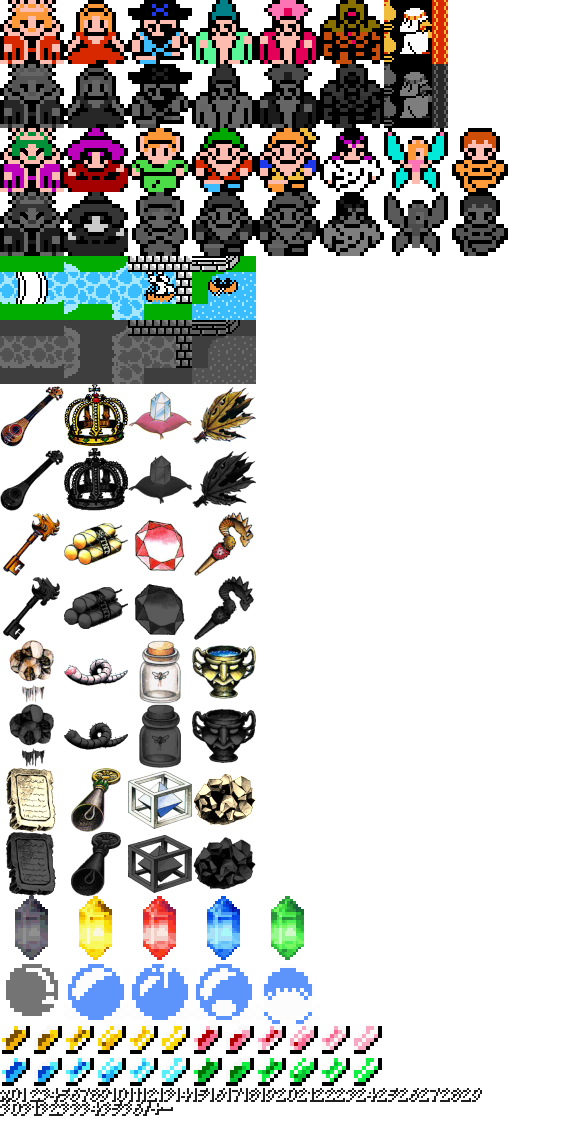
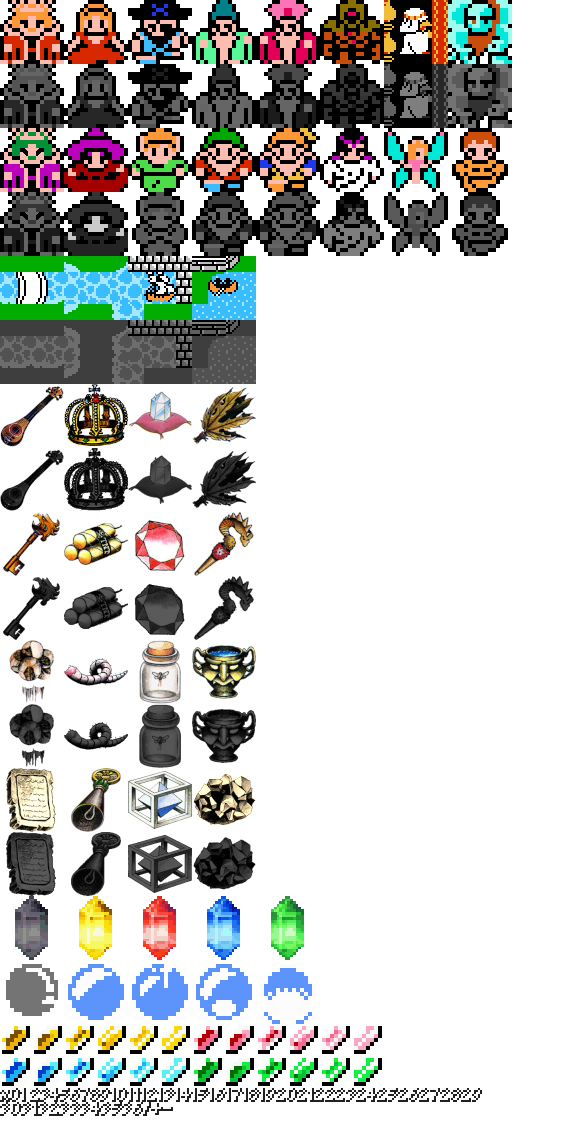
Add Titan/change NPC layout

Changed region(s): [[0.7397, 0.0, 0.8938, 0.1232]]

diff --git a/src/properties/iconProperties.ts b/src/properties/iconProperties.ts
@@ -315,6 +315,14 @@ const lefeinianOn: ICoordinates = {
   x: 320,
   y: 128,
 };
+const titanOff: ICoordinates = {
+  x: 448,
+  y: 64,
+};
+const titanOn: ICoordinates = {
+  x: 448,
+  y: 0,
+};
 const shopkeeperOff: ICoordinates = {
   x: 384,
   y: 64,
@@ -960,8 +968,8 @@ export const sardaIcon = (names: IItemNames): IIconProps => {
     toggleState: Toggle.off,
     width: standardWidthHeight,
     height: standardWidthHeight,
-    row: 0,
-    column: 3,
+    row: 1,
+    column: 0,
     stateImageLocations: [sardaOff, sardaOn],
     // empty props
     settings: {} as ISettingsProps,
@@ -976,8 +984,8 @@ export const sagesIcon = (names: IItemNames): IIconProps => {
     toggleState: Toggle.off,
     width: standardWidthHeight,
     height: standardWidthHeight,
-    row: 0,
-    column: 4,
+    row: 1,
+    column: 1,
     stateImageLocations: [sagesOff, sagesOn],
     // empty props
     settings: {} as ISettingsProps,
@@ -992,8 +1000,8 @@ export const robotIcon = (names: IItemNames): IIconProps => {
     toggleState: Toggle.off,
     width: standardWidthHeight,
     height: standardWidthHeight,
-    row: 0,
-    column: 5,
+    row: 1,
+    column: 2,
     stateImageLocations: [robotOff, robotOn],
     // empty props
     settings: {} as ISettingsProps,
@@ -1009,8 +1017,8 @@ export const astosIcon = (names: IItemNames): IIconProps => {
     toggleState: Toggle.off,
     width: standardWidthHeight,
     height: standardWidthHeight,
-    row: 1,
-    column: 0,
+    row: 0,
+    column: 3,
     stateImageLocations: [astosOff, astosOn],
     // empty props
     settings: {} as ISettingsProps,
@@ -1025,8 +1033,8 @@ export const matoyaIcon = (names: IItemNames): IIconProps => {
     toggleState: Toggle.off,
     width: standardWidthHeight,
     height: standardWidthHeight,
-    row: 1,
-    column: 1,
+    row: 0,
+    column: 4,
     stateImageLocations: [matoyaOff, matoyaOn],
     // empty props
     settings: {} as ISettingsProps,
@@ -1041,8 +1049,8 @@ export const elfIcon = (names: IItemNames): IIconProps => {
     toggleState: Toggle.off,
     width: standardWidthHeight,
     height: standardWidthHeight,
-    row: 1,
-    column: 2,
+    row: 0,
+    column: 5,
     stateImageLocations: [elfOff, elfOn],
     // empty props
     settings: {} as ISettingsProps,
@@ -1057,8 +1065,8 @@ export const nerrickIcon = (names: IItemNames): IIconProps => {
     toggleState: Toggle.off,
     width: standardWidthHeight,
     height: standardWidthHeight,
-    row: 1,
-    column: 3,
+    row: 0,
+    column: 6,
     stateImageLocations: [nerrickOff, nerrickOn],
     // empty props
     settings: {} as ISettingsProps,
@@ -1074,7 +1082,7 @@ export const smythIcon = (names: IItemNames): IIconProps => {
     width: standardWidthHeight,
     height: standardWidthHeight,
     row: 1,
-    column: 4,
+    column: 7,
     stateImageLocations: [smythOff, smythOn],
     // empty props
     settings: {} as ISettingsProps,
@@ -1114,6 +1122,22 @@ export const lefeinianIcon = (names: IItemNames): IIconProps => {
   };
 };
 
+export const titanIcon = (names: IItemNames): IIconProps => {
+  return {
+    title: names.titan,
+    shortName: names.titan,
+    toggleState: Toggle.off,
+    width: standardWidthHeight,
+    height: standardWidthHeight,
+    row: 0,
+    column: 7,
+    stateImageLocations: [titanOff, titanOn],
+    // empty props
+    settings: {} as ISettingsProps,
+    handleHover: () => {},
+  };
+};
+
 ////// Shopkeeper and fairy //////
 export const shopkeeperIcon = (names: IItemNames): IIconProps => {
   return {
@@ -1122,8 +1146,8 @@ export const shopkeeperIcon = (names: IItemNames): IIconProps => {
     toggleState: Toggle.off,
     width: standardWidthHeight,
     height: standardWidthHeight,
-    row: 0,
-    column: 7,
+    row: 1,
+    column: 3,
     stateImageLocations: [shopkeeperOff, shopkeeperOn],
     // empty props
     settings: {} as ISettingsProps,
@@ -1139,7 +1163,7 @@ export const fairyIcon = (names: IItemNames): IIconProps => {
     width: standardWidthHeight,
     height: standardWidthHeight,
     row: 1,
-    column: 7,
+    column: 4,
     stateImageLocations: [fairyOff, fairyOn],
     // empty props
     settings: {} as ISettingsProps,

diff --git a/src/strings.ts b/src/strings.ts
@@ -48,6 +48,7 @@ export interface IItemNames {
   smyth: string;
   drUnne: string;
   lefeinian: string;
+  titan: string;
   shopkeeper: string;
   shopkeeperShortName: string;
   fairy: string;
@@ -108,6 +109,7 @@ export const OriginalItemNames: IItemNames = {
   smyth: "Blacksmith",
   drUnne: "Dr. Unne",
   lefeinian: "Lefeinian",
+  titan: "Titan",
   shopkeeper: "Shopkeeper with item",
   shopkeeperShortName: "Shop Item",
   fairy: "Fairy",
@@ -168,6 +170,7 @@ export const ModernItemNames: IItemNames = {
   smyth: "Smyth",
   drUnne: OriginalItemNames.drUnne,
   lefeinian: "Lufenian",
+  titan: OriginalItemNames.titan,
   shopkeeper: OriginalItemNames.shopkeeper,
   shopkeeperShortName: OriginalItemNames.shopkeeperShortName,
   fairy: "Faerie",

diff --git a/src/properties/trackerProperties.ts b/src/properties/trackerProperties.ts
@@ -180,6 +180,7 @@ export const npcsTrackerBox = (names: IItemNames, timerVisible: boolean, isModer
       Icons.sardaIcon(names),
       Icons.sagesIcon(names),
       Icons.robotIcon(names),
+      Icons.titanIcon(names),
       Icons.shopkeeperIcon(names),
       Icons.astosIcon(names),
       Icons.matoyaIcon(names),
